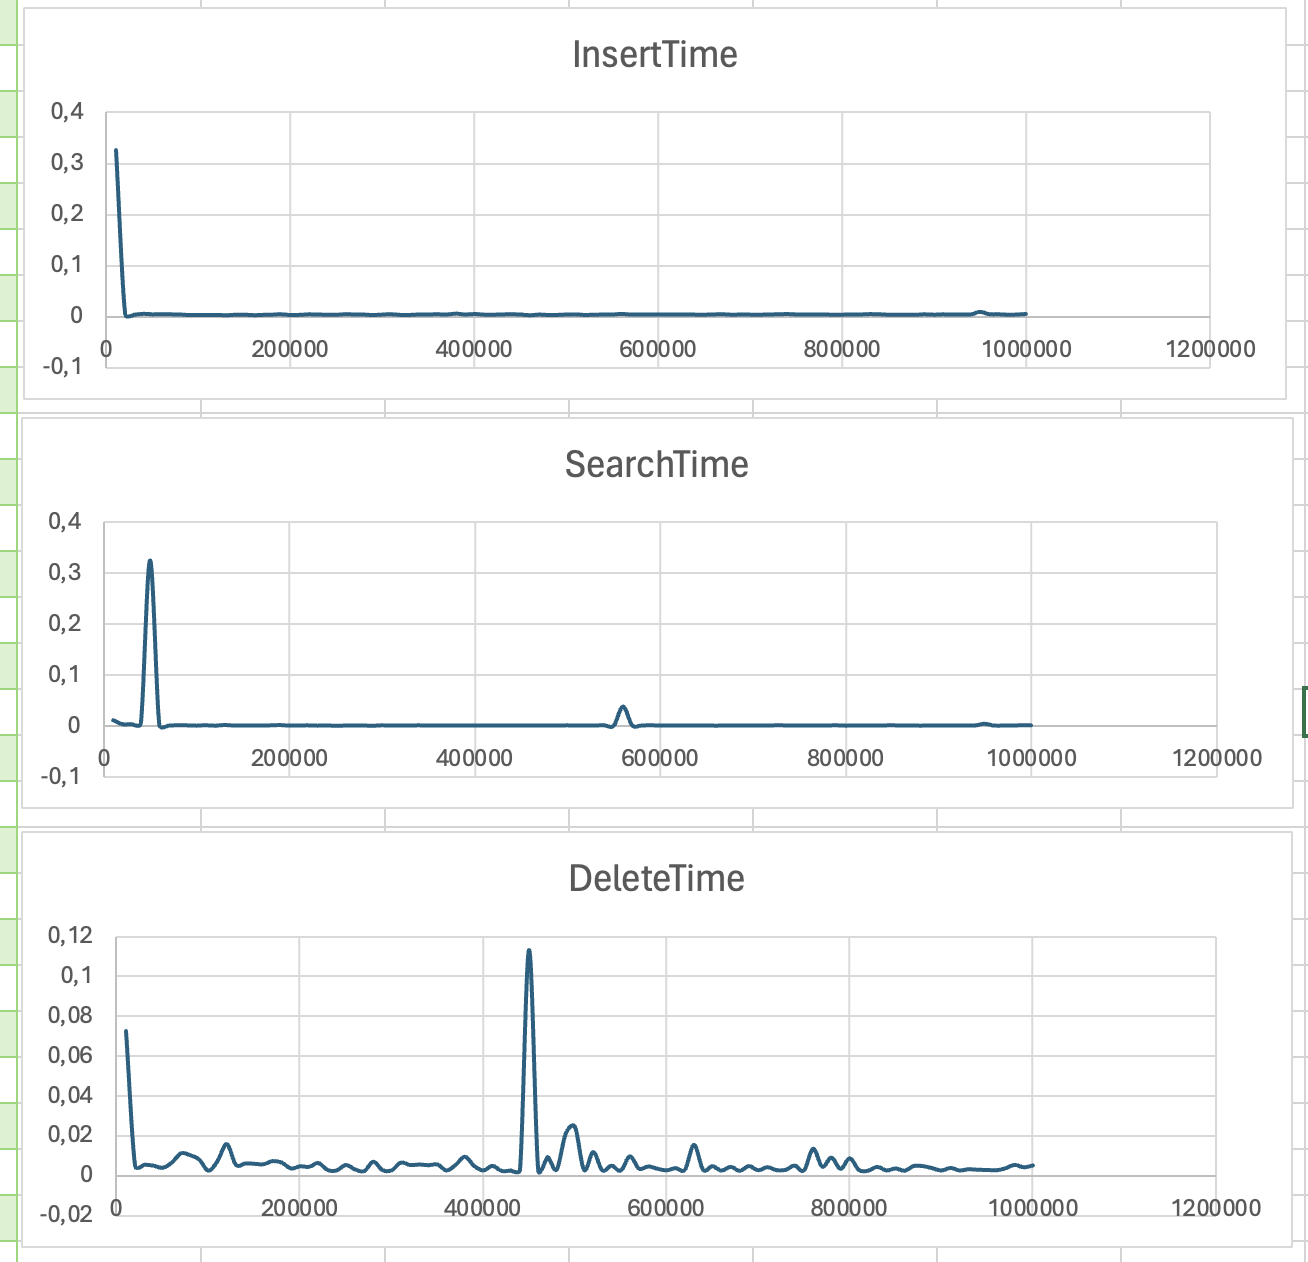
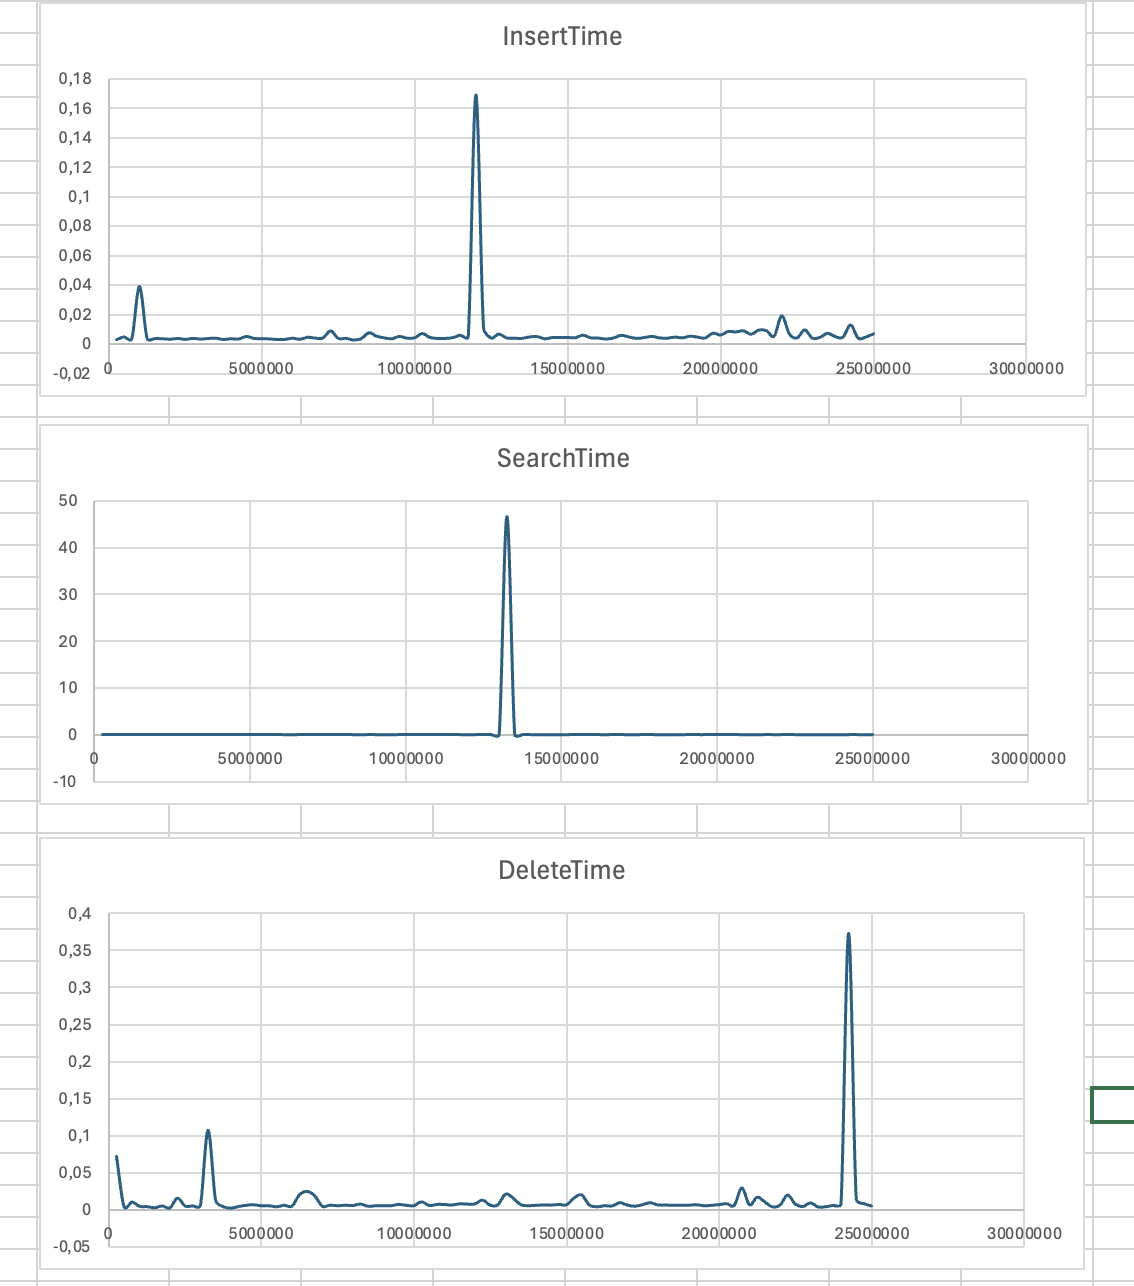
refactor

Changed region(s): [[0.0, 0.0, 1.0, 1.0], [0.7407, 0.4945, 0.8025, 0.5254]]

diff --git a/src/test_algorithms/abstracts/ds_test.js b/src/test_algorithms/abstracts/ds_test.js
@@ -1,0 +1,92 @@
+'use strict';
+const fs = require('node:fs');
+const { getRandomInt } = require('../../../utils/datasetGenerator');
+const { pipeline, Writable } = require('node:stream');
+const path = require('node:path');
+/**
+ * Data structure test class
+ * @class DataStructureTest
+ * @property {string} name - The name of the data structure
+ * @property {Array} columns - The columns of the data structure
+ * @property {DataStructure} ds - The data structure to test
+ */
+class DataStructureTest {
+  constructor(appPath) {
+    this.name = '';
+    this.ds = null;
+    this.results = {};
+    this.dataSetLengthIncrement = 200000;
+    this.amount = 100;
+    this.directoryPath = '';
+  }
+
+  *generateDataSets() {}
+
+  async perfomTests() {
+    const iterator = this.generateDataSets();
+    for await (const { dataSet, valueToSearchDelete } of iterator) {
+      const size = dataSet.getLength();
+
+      const value = getRandomInt(1, 500000);
+      let insertStart = performance.now();
+      dataSet.insert(value);
+      let insertEnd = performance.now();
+      let insertTime = insertEnd - insertStart;
+
+      let searchStart = performance.now();
+      dataSet.search(valueToSearchDelete);
+      let searchEnd = performance.now();
+      let searchTime = searchEnd - searchStart;
+
+      let deleteStart = performance.now();
+      dataSet.delete(valueToSearchDelete);
+      let deleteEnd = performance.now();
+      let deleteTime = deleteEnd - deleteStart;
+
+      this.results[size] = {
+        insertTime,
+        searchTime,
+        deleteTime,
+      };
+
+      console.log(
+        `Size: ${size}, Insert Time: ${insertTime.toFixed(
+          4,
+        )} ms, Search Time: ${searchTime.toFixed(
+          4,
+        )} ms, Delete Time: ${deleteTime.toFixed(4)} ms`,
+      );
+    }
+  }
+
+  async prepateResultsFile() {
+    const results = this.results;
+    let csvContent = 'Size,InsertTime,SearchTime,DeleteTime\n';
+    for (const size in results) {
+      const parsedSize = parseInt(size);
+      csvContent += `${parsedSize},${results[parsedSize].insertTime},${results[parsedSize].searchTime},${results[parsedSize].deleteTime}\n`;
+    }
+    fs.writeFileSync(`${this.name}_performance_results.csv`, csvContent);
+    console.log(`\nData saved to ${this.name}_performance_results.csv`);
+  }
+
+  async writesDataSetsToFiles() {
+    const iterator = this.generateDataSets();
+    await pipeline(
+      iterator,
+      fs.createWriteStream(`${this.directoryPath}/data.json`, {
+        objectMode: true,
+      }),
+      (err) => {
+        if (err) {
+          console.error('Failed to write data sets to file');
+          console.error(err);
+        } else {
+          console.log(`\nData sets saved to ${this.name}_data_sets.json`);
+        }
+      },
+    );
+  }
+}
+
+module.exports = DataStructureTest;

diff --git a/index.js b/index.js
@@ -1,36 +1,11 @@
-const PerformanceTest = require('./src/performanceTest');
-const { SortingPerfomanceTest, RedBlackTreePerformanceTest } = require('./src/performanceTest');
-const fs = require('node:fs');
+const RedBlackTreeTest = require('./src/test_algorithms/datastructure_tests/RedBlackTreeTest');
+const path = require('node:path');
 
 (async()=>{
-    // const testSorting = new SortingPerfomanceTest();
-    // await testSorting.runSortingTest();
-    // const sortingResults = testSorting.getResults();
+    const appPath = path.join(process.cwd(),"./");
 
-    // const sizes = Object.keys(sortingResults).map((key) => parseInt(key));
-    // const sortingTimes = sizes.map((size) => sortingResults[size].sortTime);
-
-    const testRedBlackTree = new RedBlackTreePerformanceTest();
-    await testRedBlackTree.runRedBlackTreeTest();
-    const results = testRedBlackTree.getResults();
-
-    const sizes = Object.keys(results).map((size) => parseInt(size));
-    const insertTimes = sizes.map((size) => results[size].insertTime);
-    const searchTimes = sizes.map((size) => results[size].searchTime);
-    const deleteTimes = sizes.map((size) => results[size].deleteTime);
-    
-    // Save data to CSV
-    let csvContent = 'Size,InsertTime,SearchTime,DeleteTime\n';
-    // let csvContent = 'Size,SortTime\n';
-
-    sizes.forEach((size, index) => {
-      csvContent += `${size},${insertTimes[index]},${searchTimes[index]},${deleteTimes[index]}\n`;
-    });
-
-    // sizes.forEach((size, index) => {
-    //   csvContent += `${size},${sortingTimes[index]}\n`;
-    // });
-    
-    fs.writeFileSync('performance_results.csv', csvContent);
-    console.log('\nData saved to performance_results.csv');
+    console.log("app path ", appPath);
+    const testRedBlackTree = new RedBlackTreeTest(appPath);
+    await testRedBlackTree.perfomTests();
+    await testRedBlackTree.prepateResultsFile();
 })();

diff --git a/src/performanceTest.js b/src/performanceTest.js
@@ -14,51 +14,6 @@ class PerformanceTest {
 
   *generateRandomDataSets(amount = 100) {}
 
-  async runRedBlackTreeTest() {
-    let iterations = 100;
-
-    const iterator = this.generateRandomDataSets(iterations);
-
-    for await (const dataSet of iterator) {
-      const size = dataSet.getLength();
-
-      const value = this.getRandomInt(1, 500000);
-      // Measure insert time
-      let insertStart = performance.now();
-      dataSet.insert(value);
-      let insertEnd = performance.now();
-      let insertTime = insertEnd - insertStart;
-
-      const searchDeleteValue = this.valuesToSearchDelete.get(size);
-      let searchStart = performance.now();
-      dataSet.search(searchDeleteValue);
-      let searchEnd = performance.now();
-      let searchTime = searchEnd - searchStart;
-
-      let deleteStart = performance.now();
-      dataSet.delete(searchDeleteValue);
-      let deleteEnd = performance.now();
-      let deleteTime = deleteEnd - deleteStart;
-
-      // Store the results
-      this.results[size] = {
-        insertTime,
-        searchTime,
-        deleteTime,
-      };
-
-      console.log(
-        `Size: ${size}, Insert Time: ${insertTime.toFixed(
-          4,
-        )} ms, Search Time: ${searchTime.toFixed(
-          4,
-        )} ms, Delete Time: ${deleteTime.toFixed(4)} ms`,
-      );
-
-      dataSet.clear();
-    }
-  }
-
   async runSortingTest() {
     let iterations = 100;
 
@@ -77,7 +32,6 @@ class PerformanceTest {
       };
 
       console.log(`Size: ${size}, Sort Time: ${sortTime.toFixed(4)} ms`);
-      // this.dataSet.clear();
     }
   }
 

diff --git a/src/data_structures/redBlackTree.js b/src/data_structures/redBlackTree.js
@@ -4,11 +4,11 @@ const DataStructure = require('./dataStructure');
 
 class Node {
   constructor(value, tree) {
-      this.value = value;
-      this.color = 'red'; // New nodes are red by default
-      this.left = tree.nil;
-      this.right = tree.nil;
-      this.parent = tree.nil;
+    this.value = value;
+    this.color = 'red'; // New nodes are red by default
+    this.left = tree.nil;
+    this.right = tree.nil;
+    this.parent = tree.nil;
   }
 }
 
@@ -22,7 +22,7 @@ class RedBlackTree extends DataStructure {
     this.length = 0;
   }
 
-  getLength(){
+  getLength() {
     return this.length;
   }
 
@@ -238,8 +238,25 @@ class RedBlackTree extends DataStructure {
   }
   // Clear method to reset the tree
   clear() {
-    this.root = this.nil;
+    this.root = null;
     this.length = 0;
+  }
+
+  serialize() {
+    const traverse = (node) => {
+      if (node === this.nil) {
+        return null;
+      }
+
+      return {
+        value: node.value,
+        color: node.color,
+        left: traverse(node.left),
+        right: traverse(node.right),
+      };
+    };
+
+    return traverse(this.root);
   }
 }
 module.exports = RedBlackTree;

diff --git a/utils/datasetGenerator.js b/utils/datasetGenerator.js
@@ -1,0 +1,31 @@
+'use strcit';
+
+function getRandomInt(min, max) {
+  return Math.floor(Math.random() * (max - min)) + min;
+}
+
+/**
+ *
+ * @param {number} amount
+ * @param {number} increment
+ * @param {DataStructure} ds
+ */
+function* generateDataSets({ amount, increment, ds }) {
+  const dataSet = new ds();
+  for (let i = 1; i <= amount; i++) {
+    const size = i * increment;
+    const random = getRandomInt(1, 500000);
+    dataSet.insert(random);
+    const startTime = performance.now();
+    while (dataSet.getLength() < size) {
+      dataSet.insert(getRandomInt(1, 500000));
+    }
+    const endTime = performance.now();
+    let generateTime = endTime - startTime;
+    console.log(`Size: ${size}, Generate Time: ${generateTime.toFixed(4)}`);
+    yield { dataSet, valueToSearchDelete: random };
+  }
+  dataSet.clear();
+}
+
+module.exports = { generateDataSets, getRandomInt };

diff --git a/src/test_algorithms/datastructure_tests/RedBlackTreeTest.js b/src/test_algorithms/datastructure_tests/RedBlackTreeTest.js
@@ -1,0 +1,23 @@
+'use strict';
+
+const DataStructureTest = require("../abstracts/ds_test");
+const RedBlackTree = require("../../data_structures/redBlackTree");
+const {generateDataSets} = require('../../../utils/datasetGenerator');
+const path = require("node:path");
+
+class RedBlackTreeTest extends DataStructureTest {
+  constructor(appPath) {
+    super(appPath);
+    this.name = "Red Black Tree";
+    this.ds = RedBlackTree;
+    this.amount = 100;
+    this.dataSetLengthIncrement = 250000;
+    this.directoryPath = path.join(appPath,'data','RedBlackTree');
+  }
+
+  generateDataSets(){
+    return generateDataSets({amount:this.amount, increment: this.dataSetLengthIncrement, ds: this.ds})
+  }
+}
+
+module.exports = RedBlackTreeTest;

diff --git a/src/data_structures/dataStructure.js b/src/data_structures/dataStructure.js
@@ -18,6 +18,14 @@ class DataStructure {
     delete(value) {
         throw new Error('Method delete() must be implemented.');
     }
+
+    clear() {
+        throw new Error('Method clear() must be implemented.');
+    }
+
+    serialize() {
+        throw new Error('Method serialize() must be implemented.');
+    }
 }
 
 module.exports = DataStructure;
